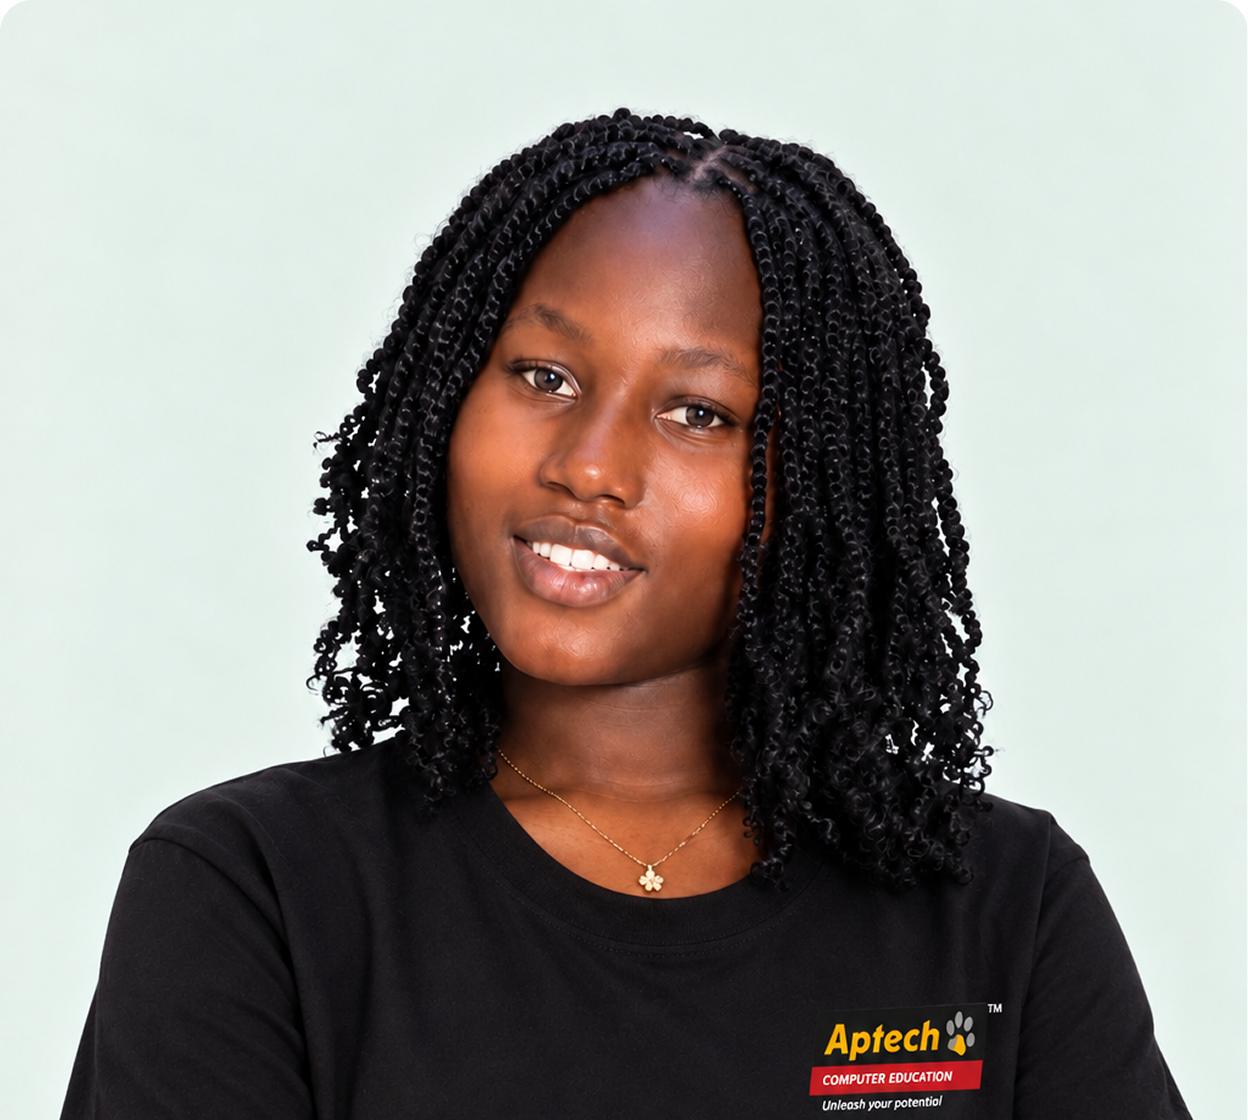
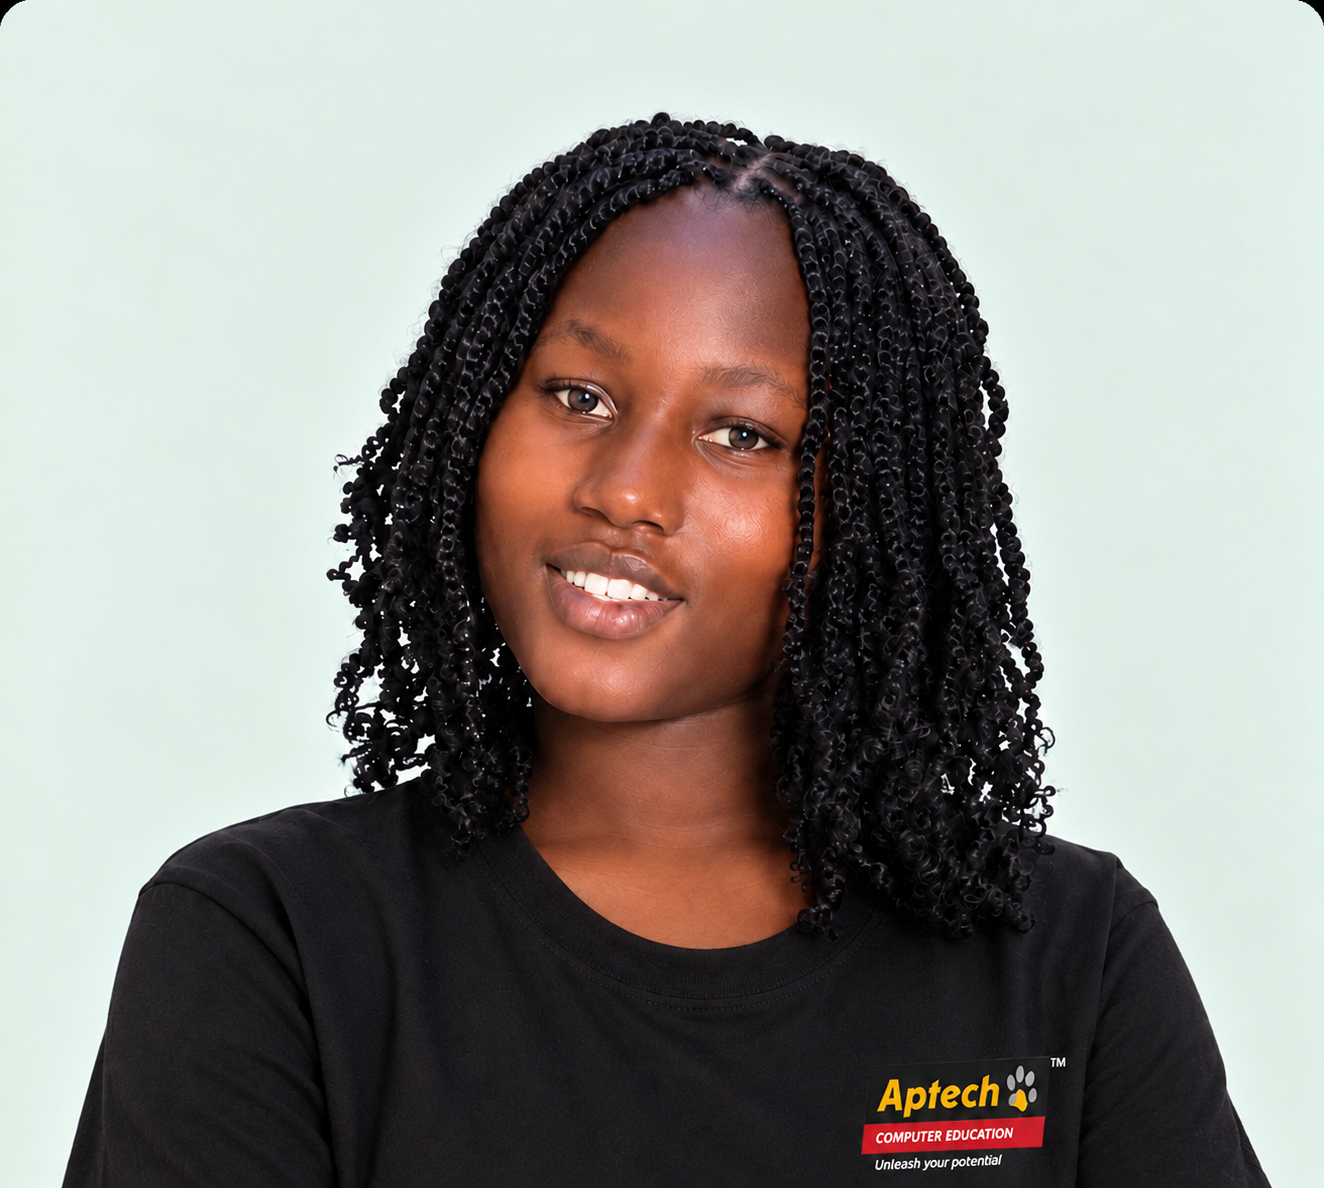
cetnered text

diff --git a/src/pages/AboutPage.css b/src/pages/AboutPage.css
@@ -142,7 +142,7 @@
 .team-card {
   width: 312px;
   overflow: hidden;
-  text-align: left;
+  text-align: center;
   background: #fff;
   border: 1px solid var(--card-border);
   border-radius: 8px;

diff --git a/src/pages/MarketDetailPage.css b/src/pages/MarketDetailPage.css
@@ -291,6 +291,7 @@
   border-radius: var(--radius-md);
   overflow: hidden;
   padding-bottom: 10px;
+  text-align: center;
 }
 
 .detail .detail__produce-card img {
